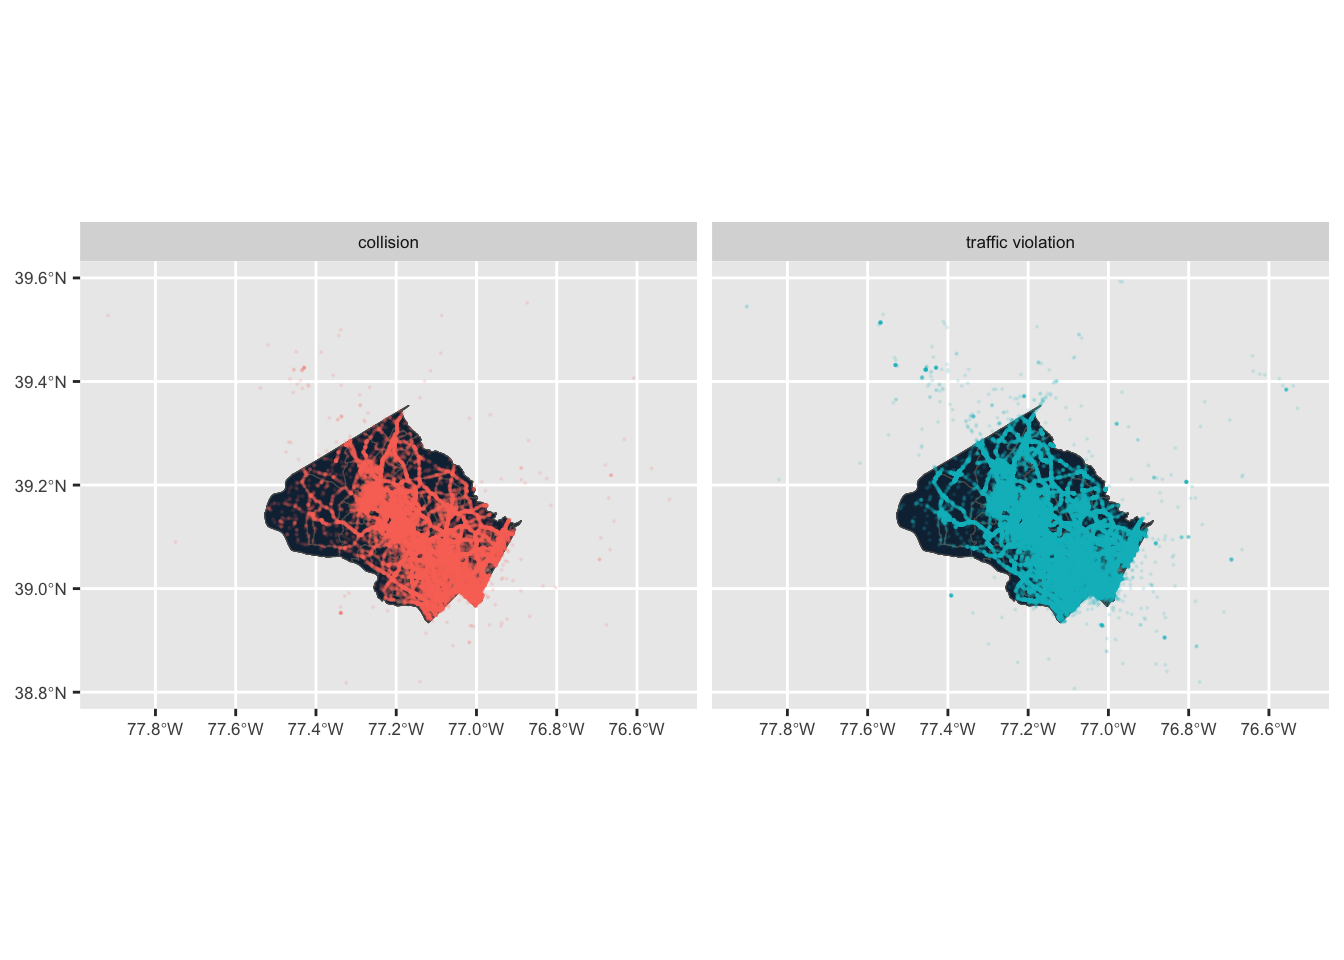
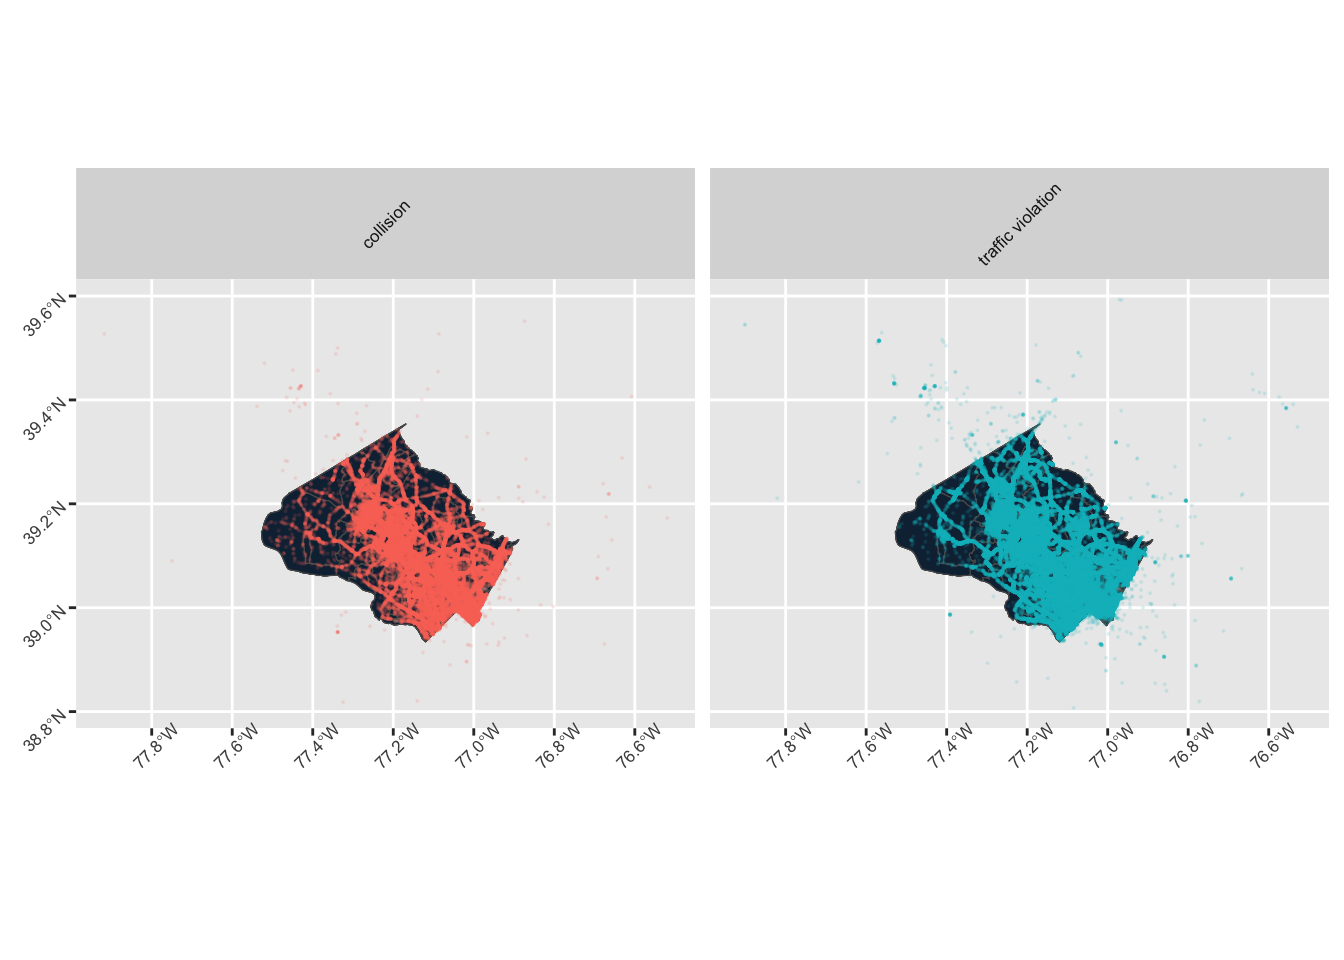
Built site for gh-pages

diff --git a/analysis.html b/analysis.html
@@ -290,29 +290,29 @@ pre > code.sourceCode > span > a:first-child::before { text-decoration: underlin
   |                                                                            
   |                                                                      |   0%
   |                                                                            
-  |=                                                                     |   1%
-  |                                                                            
   |==                                                                    |   2%
   |                                                                            
   |==                                                                    |   3%
   |                                                                            
   |===                                                                   |   5%
   |                                                                            
-  |====                                                                  |   6%
-  |                                                                            
   |=====                                                                 |   7%
   |                                                                            
+  |======                                                                |   8%
+  |                                                                            
   |======                                                                |   9%
+  |                                                                            
+  |=======                                                               |  10%
   |                                                                            
   |========                                                              |  11%
   |                                                                            
   |==========                                                            |  14%
   |                                                                            
-  |==========                                                            |  15%
-  |                                                                            
   |===========                                                           |  16%
   |                                                                            
   |============                                                          |  17%
+  |                                                                            
+  |=============                                                         |  18%
   |                                                                            
   |=============                                                         |  19%
   |                                                                            
@@ -326,7 +326,7 @@ pre > code.sourceCode > span > a:first-child::before { text-decoration: underlin
   |                                                                            
   |==================                                                    |  26%
   |                                                                            
-  |===================                                                   |  27%
+  |====================                                                  |  28%
   |                                                                            
   |=====================                                                 |  30%
   |                                                                            
@@ -334,13 +334,11 @@ pre > code.sourceCode > span > a:first-child::before { text-decoration: underlin
   |                                                                            
   |=======================                                               |  33%
   |                                                                            
-  |=========================                                             |  35%
+  |========================                                              |  34%
   |                                                                            
   |=========================                                             |  36%
   |                                                                            
-  |==========================                                            |  38%
-  |                                                                            
-  |============================                                          |  40%
+  |===========================                                           |  39%
   |                                                                            
   |=============================                                         |  41%
   |                                                                            
@@ -348,7 +346,9 @@ pre > code.sourceCode > span > a:first-child::before { text-decoration: underlin
   |                                                                            
   |===============================                                       |  44%
   |                                                                            
-  |================================                                      |  46%
+  |=================================                                     |  47%
+  |                                                                            
+  |==================================                                    |  48%
   |                                                                            
   |===================================                                   |  50%
   |                                                                            
@@ -356,25 +356,37 @@ pre > code.sourceCode > span > a:first-child::before { text-decoration: underlin
   |                                                                            
   |======================================                                |  55%
   |                                                                            
-  |========================================                              |  57%
+  |=======================================                               |  56%
+  |                                                                            
+  |=========================================                             |  58%
+  |                                                                            
+  |===========================================                           |  62%
   |                                                                            
   |============================================                          |  63%
   |                                                                            
   |=============================================                         |  64%
   |                                                                            
+  |=============================================                         |  65%
+  |                                                                            
   |==============================================                        |  66%
   |                                                                            
   |======================================================                |  77%
   |                                                                            
+  |=======================================================               |  79%
+  |                                                                            
+  |=========================================================             |  81%
+  |                                                                            
+  |==========================================================            |  83%
+  |                                                                            
+  |============================================================          |  86%
+  |                                                                            
+  |=============================================================         |  88%
+  |                                                                            
+  |==============================================================        |  89%
+  |                                                                            
   |================================================================      |  91%
   |                                                                            
   |=================================================================     |  92%
-  |                                                                            
-  |==================================================================    |  95%
-  |                                                                            
-  |====================================================================  |  97%
-  |                                                                            
-  |===================================================================== |  99%
   |                                                                            
   |======================================================================| 100%</code></pre>
 </div>
@@ -406,7 +418,7 @@ pre > code.sourceCode > span > a:first-child::before { text-decoration: underlin
 <div class="cell">
 <div class="sourceCode cell-code" id="cb6"><pre class="sourceCode r code-with-copy"><code class="sourceCode r"><span id="cb6-1"><a href="#cb6-1" aria-hidden="true" tabindex="-1"></a><span class="fu">ggplot</span>() <span class="sc">+</span> <span class="fu">geom_sf</span>(<span class="at">data =</span> md, <span class="fu">aes</span>(<span class="at">fill =</span> pct)) <span class="sc">+</span> </span>
 <span id="cb6-2"><a href="#cb6-2" aria-hidden="true" tabindex="-1"></a>  <span class="fu">geom_sf</span>(<span class="at">data =</span> simplified_geo, <span class="fu">aes</span>(<span class="at">color =</span> type), <span class="at">alpha =</span> <span class="fl">0.1</span>, <span class="at">size =</span> <span class="fl">0.1</span>) <span class="sc">+</span> </span>
-<span id="cb6-3"><a href="#cb6-3" aria-hidden="true" tabindex="-1"></a>  <span class="fu">facet_wrap</span>(<span class="sc">~</span>type) <span class="sc">+</span> <span class="fu">theme</span>(<span class="at">text =</span> <span class="fu">element_text</span>(<span class="at">size =</span> <span class="dv">8</span>), <span class="at">legend.position =</span> <span class="st">"none"</span>)</span></code><button title="Copy to Clipboard" class="code-copy-button"><i class="bi"></i></button></pre></div>
+<span id="cb6-3"><a href="#cb6-3" aria-hidden="true" tabindex="-1"></a>  <span class="fu">facet_wrap</span>(<span class="sc">~</span>type) <span class="sc">+</span> <span class="fu">theme</span>(<span class="at">text =</span> <span class="fu">element_text</span>(<span class="at">size =</span> <span class="dv">8</span>, <span class="at">angle =</span> <span class="dv">45</span>), <span class="at">legend.position =</span> <span class="st">"none"</span>)</span></code><button title="Copy to Clipboard" class="code-copy-button"><i class="bi"></i></button></pre></div>
 <div class="cell-output-display">
 <p><img src="analysis_files/figure-html/unnamed-chunk-4-1.png" class="img-fluid" width="672"></p>
 </div>
